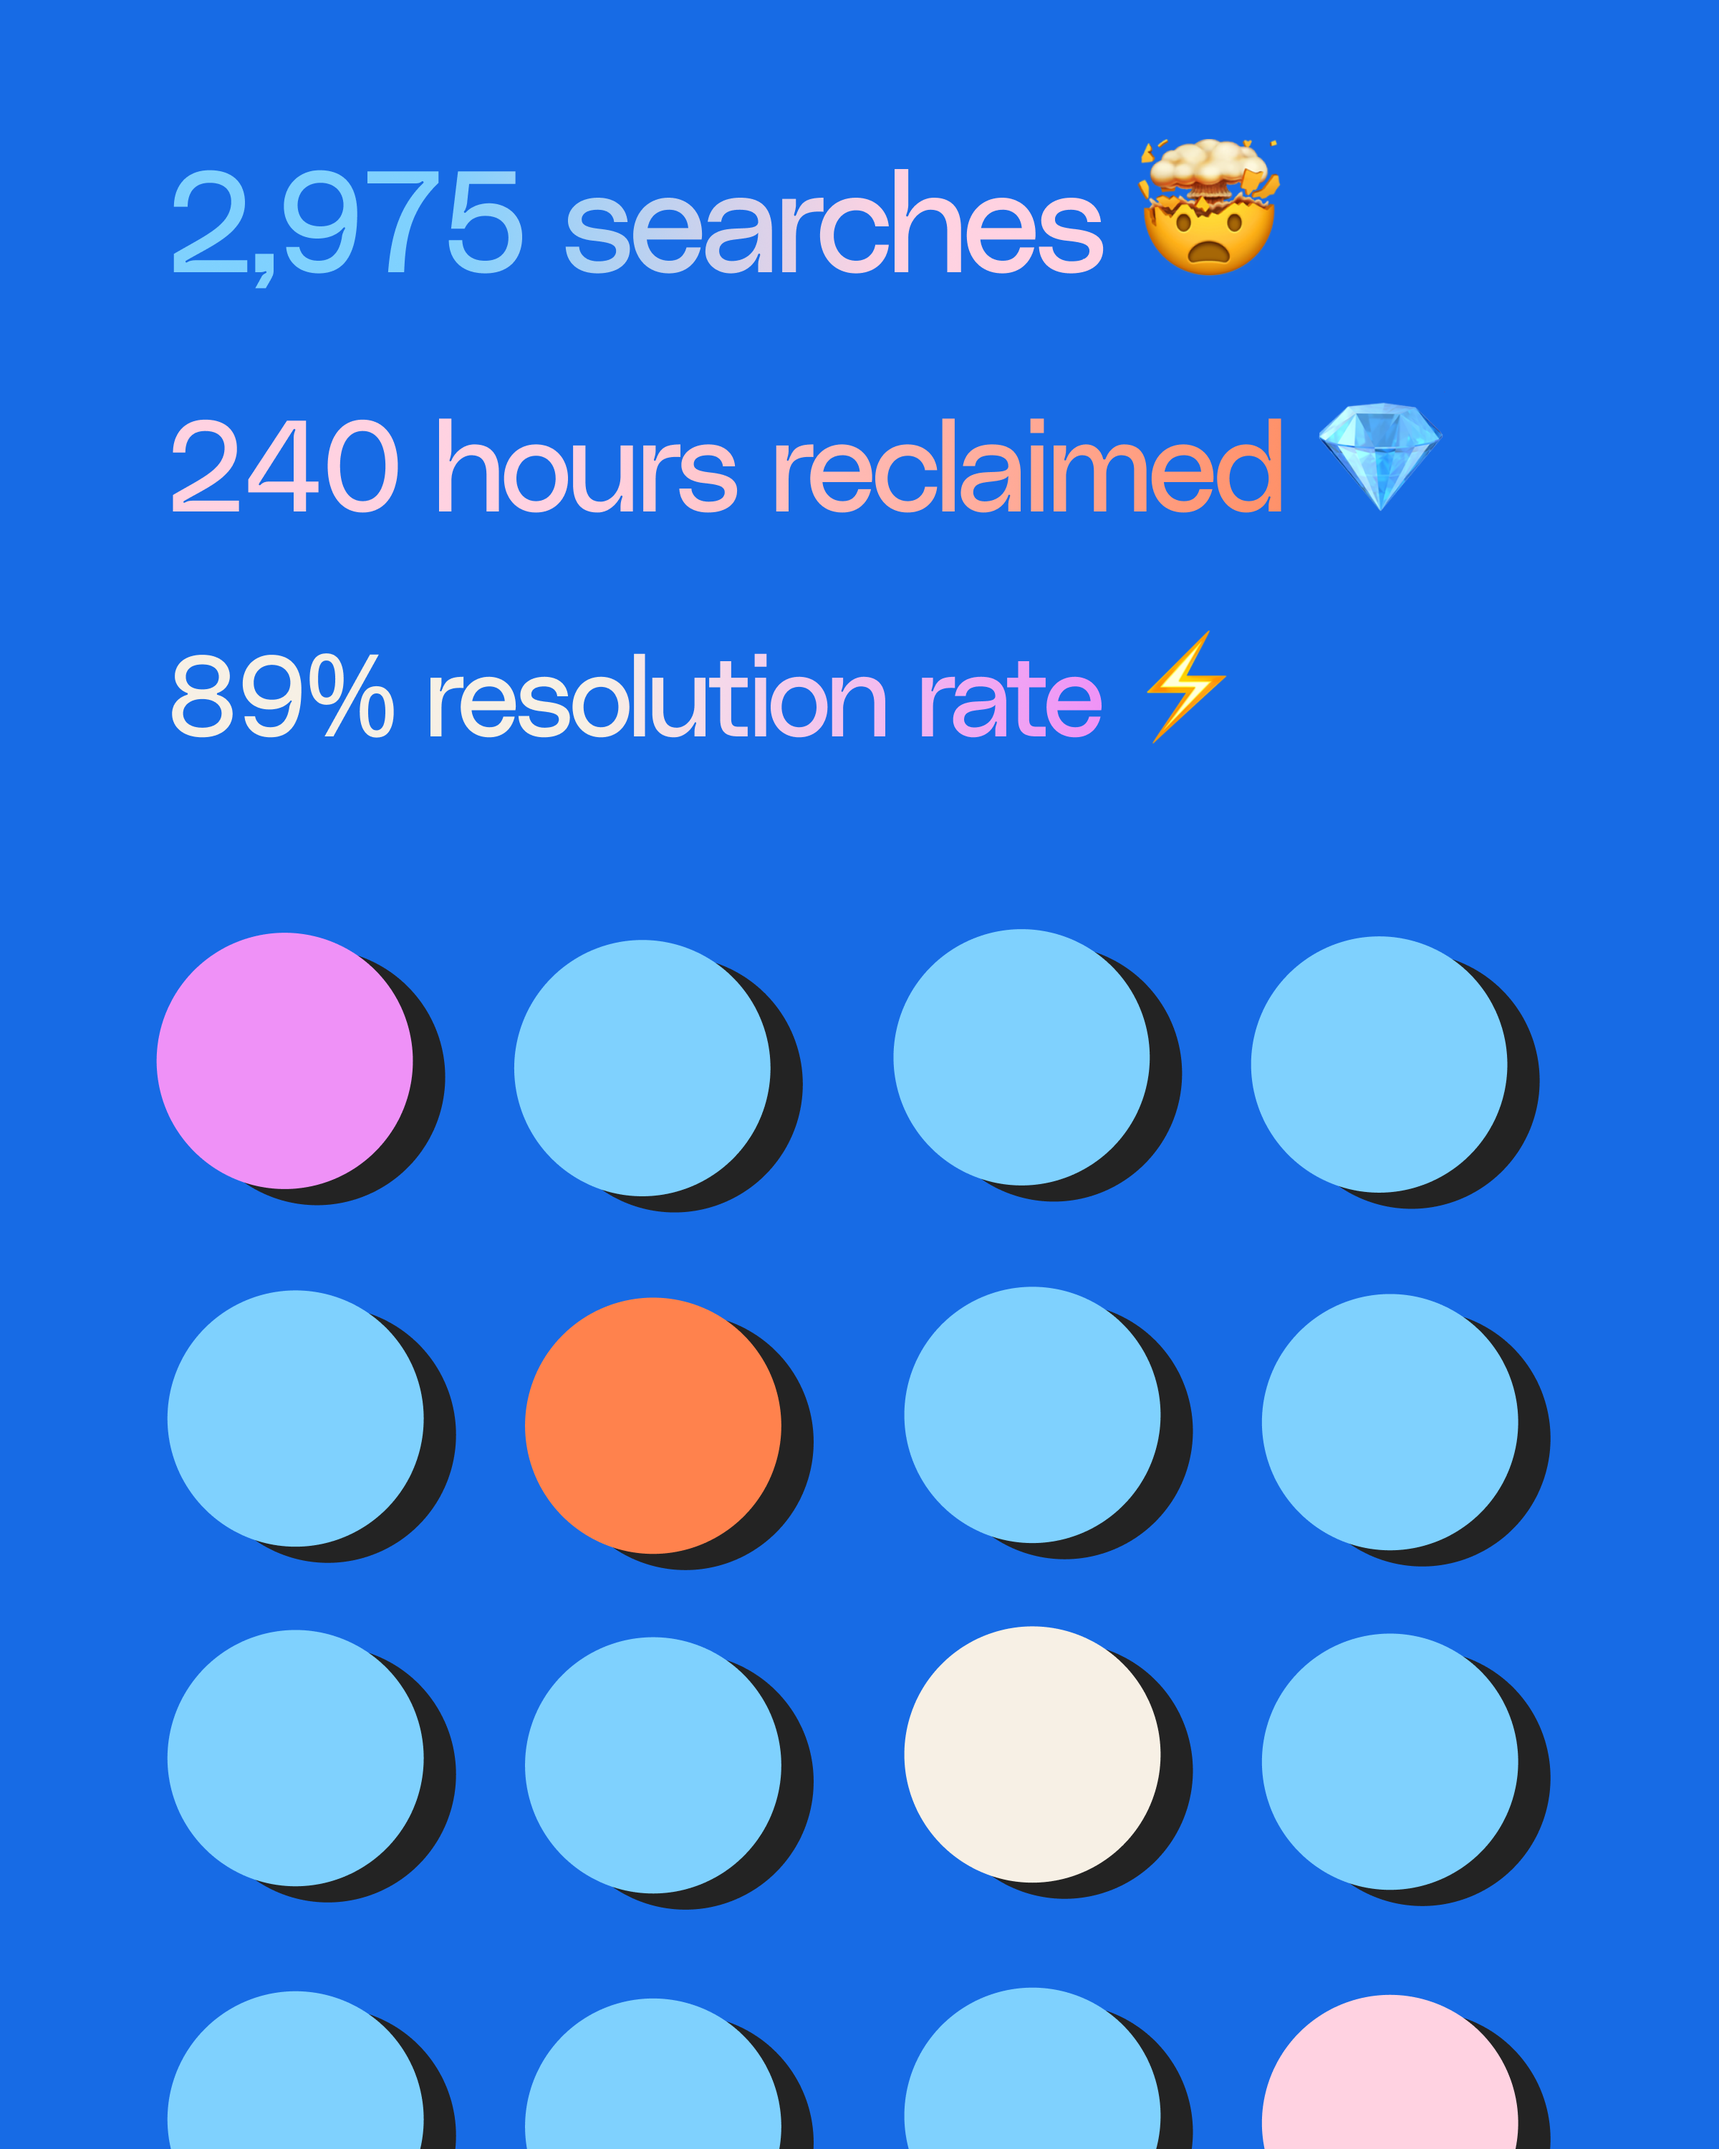
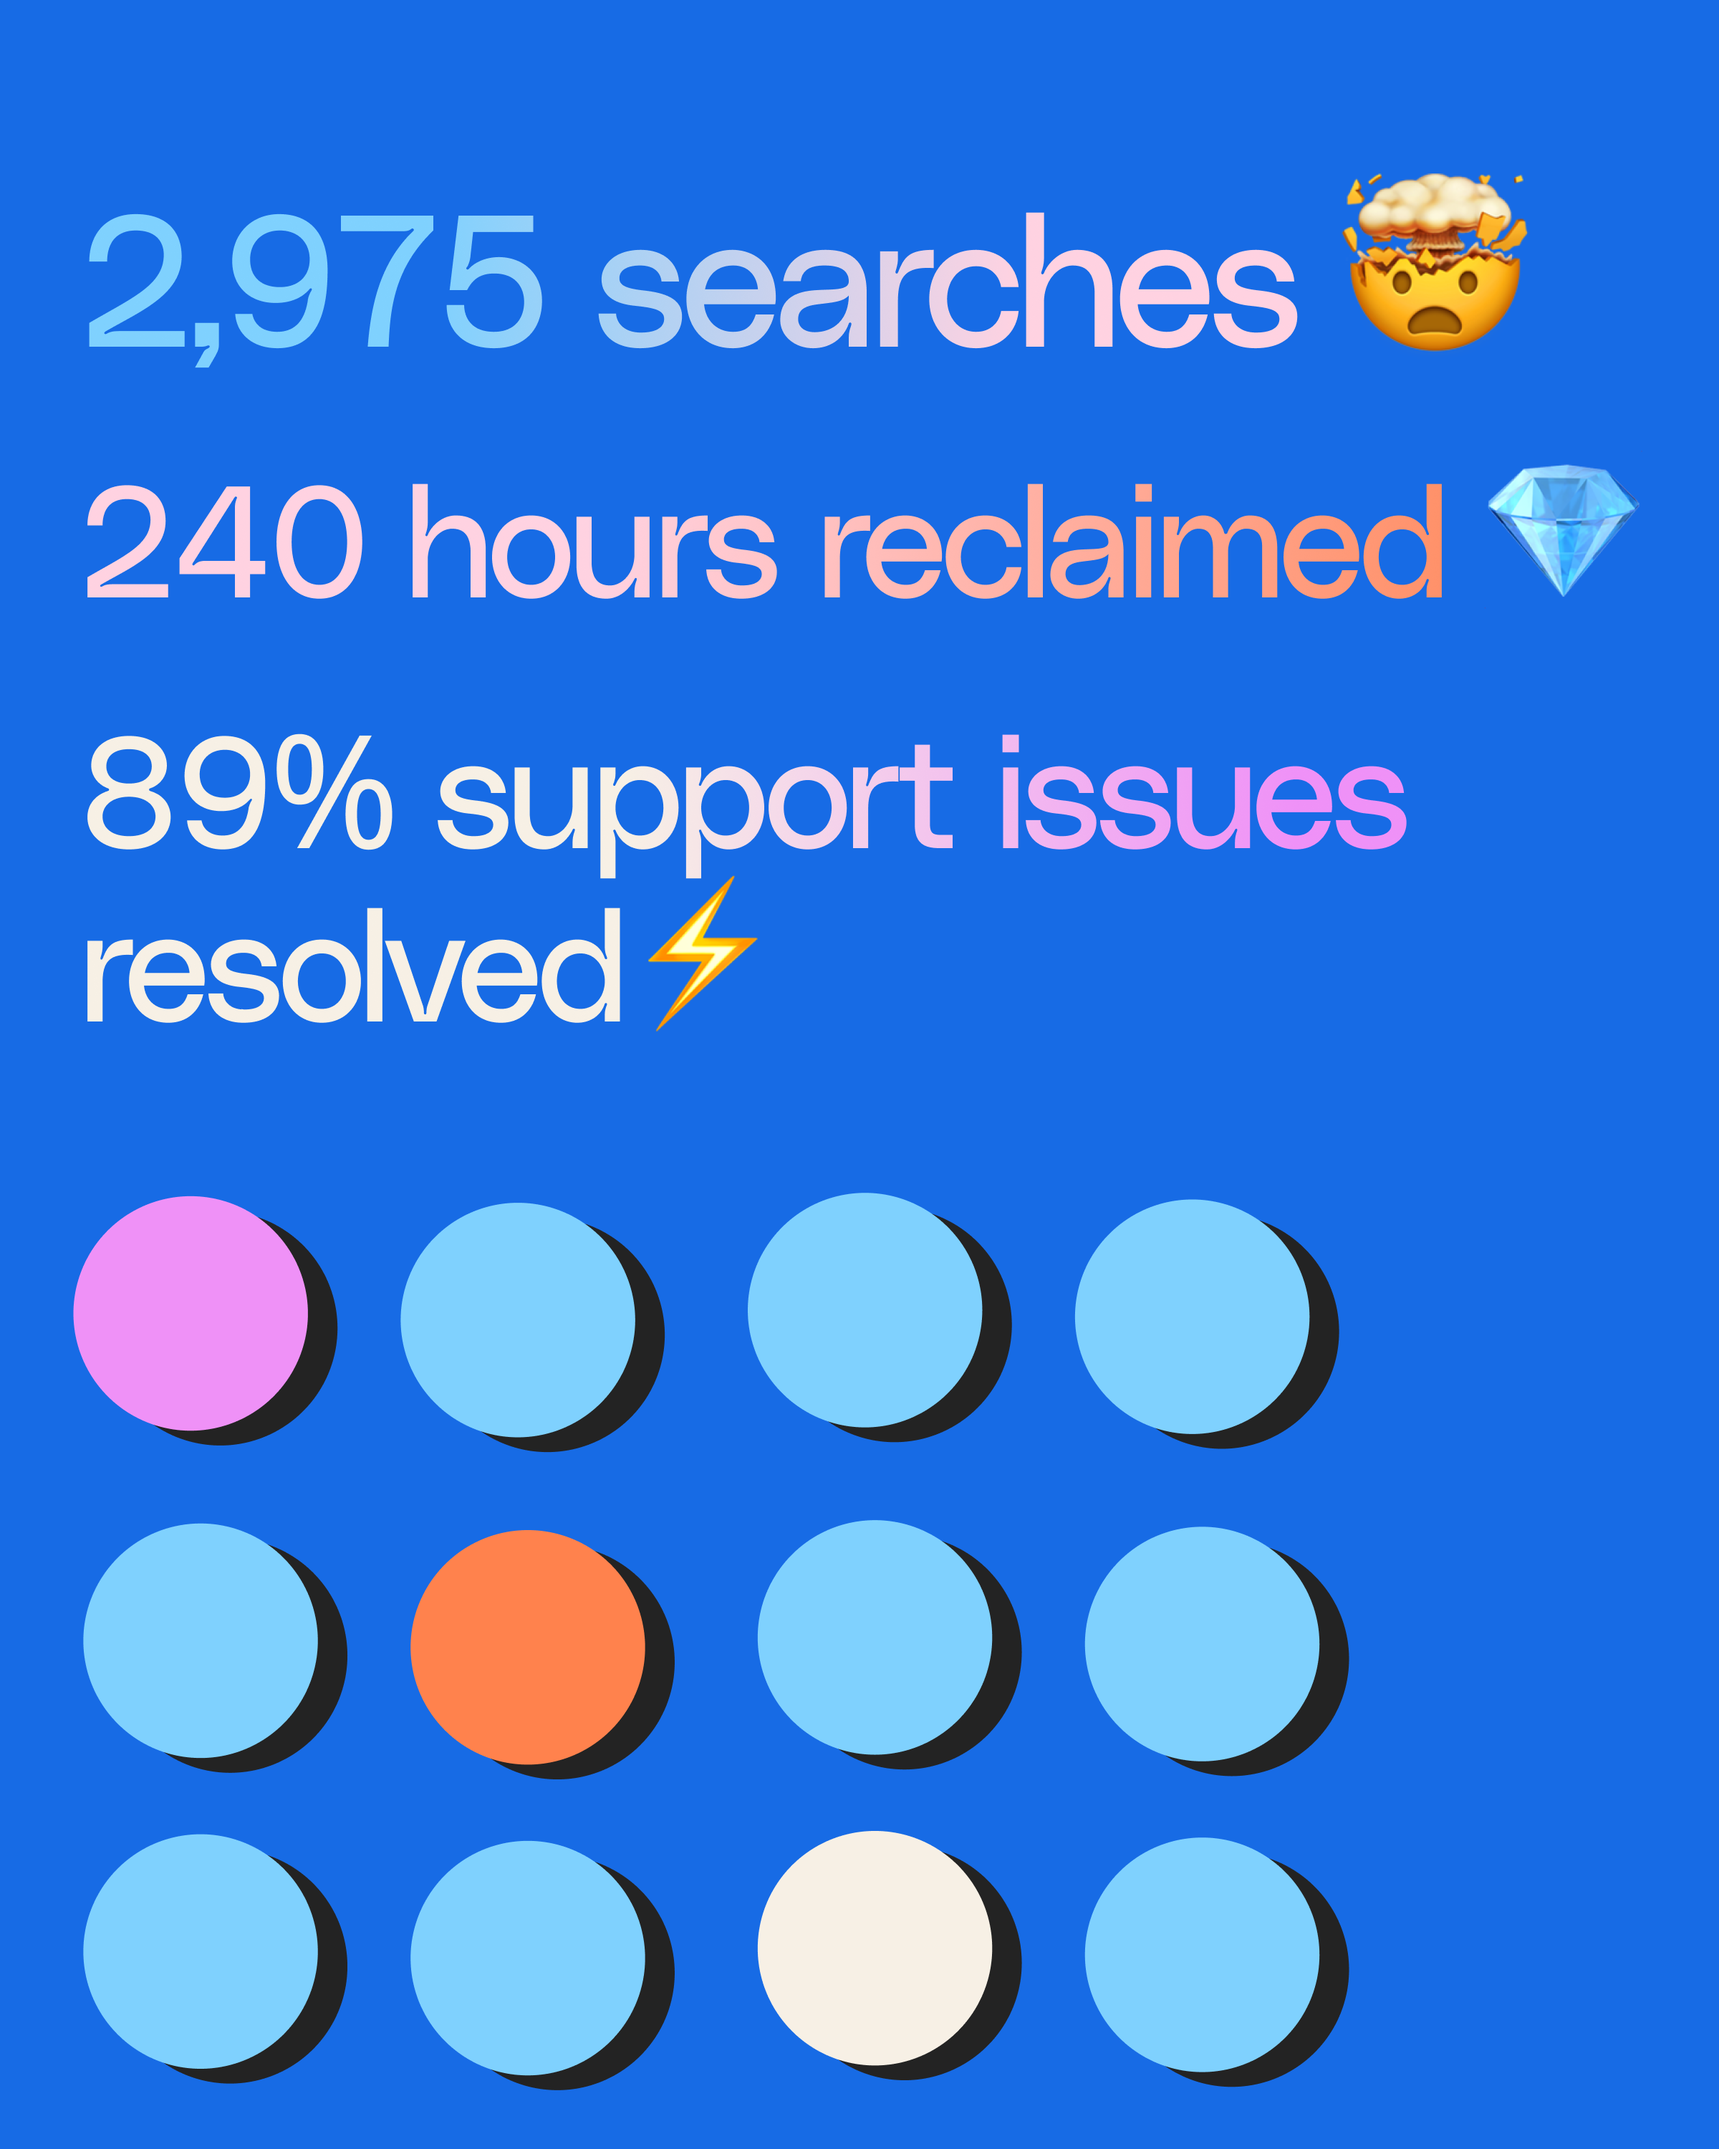
refactor share mechanism

diff --git a/pages/2025-wrapped.vue b/pages/2025-wrapped.vue
@@ -83,7 +83,7 @@
             </button>
           </article>
         </div>
-        <div class="wrapped-carousel__cell">
+        <div class="wrapped-carousel__cell" id="share-screen">
           <article class="wrapped-card wrapped-card--cream">
             <h2 class="u-text-h1 u-text-h1--alt u-font-mono">
               {{ searchesValue }}
@@ -93,12 +93,6 @@
               year. That's thousands of moments you found answers fast without
               breaking your flow.
             </p>
-            <button
-              class="wrapped-card__button c-button c-button--alt"
-              @click="handleShareButtonClick"
-            >
-              Share your wrapped
-            </button>
             <div
               id="js-matter-physics"
               class="wrapped-card__matter-container"
@@ -112,7 +106,7 @@
             body="A full month ~ 20 days of work reclaimed. Instead of hunting for
           answers, you helped customers, solved problems fast, and kept the team
           moving."
-            button-text="Share your wrapped"
+            button-text=""
             illustration-class="wrapped-card__illustration--grid"
             @buttonClick="handleShareButtonClick"
           />
@@ -123,7 +117,7 @@
             label="YOUR PEAK MONTH"
             :heading="`${wrappedData.peakMonth.name} was your Super month ⚡`"
             :body="`You created ${wrappedData.peakMonth.docsCreated} support articles in Slite, escalated ${wrappedData.peakMonth.escalations.total} issues to ${wrappedData.peakMonth.escalations.tool} , and resolved ${wrappedData.peakMonth.resolvedConversations.total} conversations in ${wrappedData.peakMonth.resolvedConversations.tool} – your fastest in just ${wrappedData.peakMonth.fastestResolutionSeconds} seconds.`"
-            button-text="Share your wrapped"
+            button-text=""
             button-class="c-button--alt"
             @buttonClick="handleShareButtonClick"
           >
@@ -312,7 +306,7 @@
             label="Knowledge creator"
             :heading="`${wrappedData.docs.created} Docs created`"
             :body="`You authored ${wrappedData.docs.created} documentation pages in Slite this year, and your '${wrappedData.docs.topDoc.title}' was viewed ${wrappedData.docs.topDoc.viewed} times by ${wrappedData.docs.topDoc.viewers} teammates. You're literally writing the playbook.`"
-            button-text="Share your wrapped"
+            button-text=""
             illustration-class="wrapped-card__illustration--grid"
             @buttonClick="handleShareButtonClick"
           />
@@ -343,8 +337,8 @@
                 <span
                   class="wrapped-card__copy-gradient wrapped-card__copy-gradient--pink"
                 >
-                  {{ wrappedData.archetype.resolutionRate * 100 }}% resolution
-                  rate
+                  {{ wrappedData.archetype.resolutionRate * 100 }}% support
+                  issues resolved
                 </span>
                 ⚡
               </p>
@@ -518,6 +512,7 @@
 import { ref, onMounted, onUnmounted } from "vue";
 import { useMatterPhysics } from "~/composables/useMatterPhysics";
 import WrappedSplitCard from "~/components/WrappedSplitCard.vue";
+import html2canvas from "html2canvas";
 
 const { initPhysicsEngine, destroyPhysicsEngine } = useMatterPhysics();
 
@@ -666,12 +661,21 @@ const deconstructText = (element) => {
 const isSmallScreen = computed(() => window.innerWidth <= 500);
 
 const handleShareButtonClick = async () => {
-  if (navigator.share) {
-    await navigator.share({
-      url: "https://super-wrapped.netlify.app/",
-    });
-  } else {
-    alert("Sharing is not supported in this browser.");
+  const shareData = {
+    title: "My Super Wrapped 2025",
+    text: "Here's a recap of my #SuperWrapped",
+    url: window.location.href,
+  };
+
+  try {
+    if (navigator.share) {
+      await navigator.share(shareData);
+    } else {
+      await navigator.clipboard.writeText(shareData.url);
+      alert("Link copied to clipboard!");
+    }
+  } catch (error) {
+    console.log("Share failed:", error);
   }
 };
 

diff --git a/assets/scss/core/_typography.scss b/assets/scss/core/_typography.scss
@@ -10,16 +10,24 @@
 .u-text-h1 {
   font-size: 6rem;
 
-  &--alt {
-    font-size: 12rem;
-  }
-
   @media only screen and (max-width: 720px) {
     font-size: 5rem;
   }
 
   @media only screen and (max-width: 480px) {
     font-size: 3.6rem;
+  }
+
+  &--alt {
+    font-size: 12rem;
+
+    @media only screen and (max-width: 720px) {
+      font-size: 9rem;
+    }
+
+    @media only screen and (max-width: 500px) {
+      font-size: 7rem;
+    }
   }
 }
 

diff --git a/components/WrappedSplitCard.vue b/components/WrappedSplitCard.vue
@@ -11,6 +11,7 @@
       <h2 class="u-text-h1 wrapped-card__animated-text">{{ heading }}</h2>
       <p class="wrapped-card__body wrapped-card__animated-text">{{ body }}</p>
       <button
+        v-if="buttonText"
         class="wrapped-card__button c-button"
         :class="buttonClass"
         @click="$emit('button-click')"
